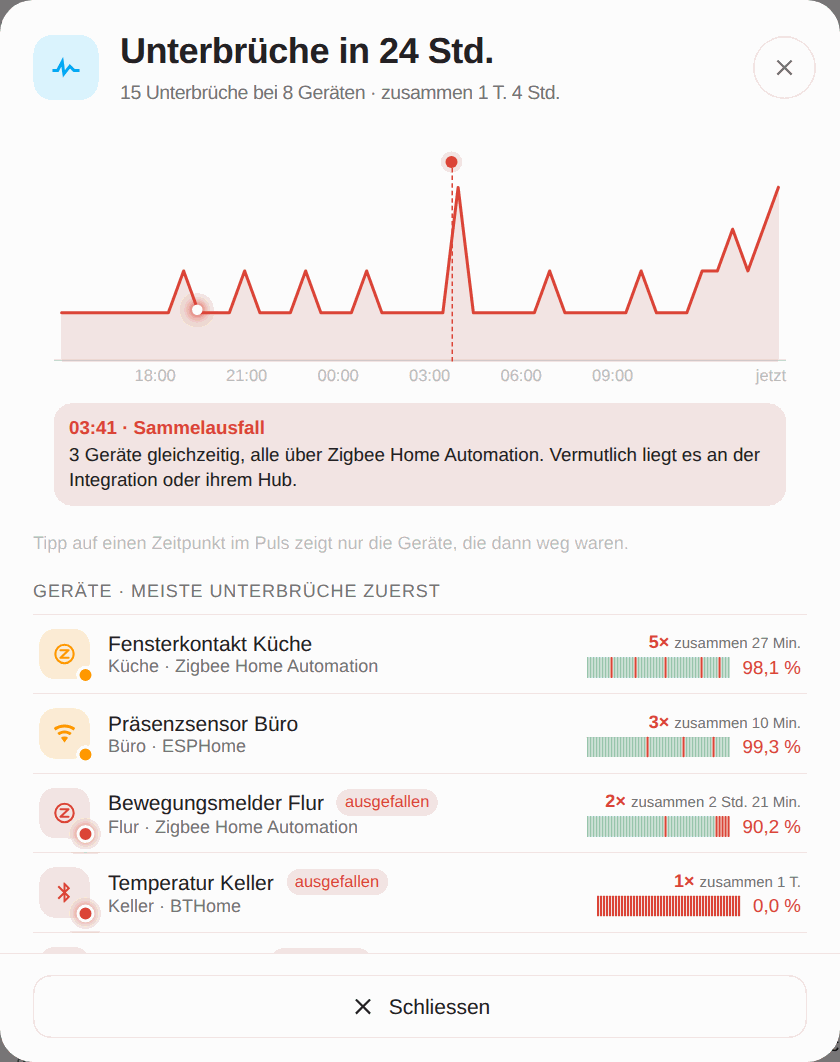
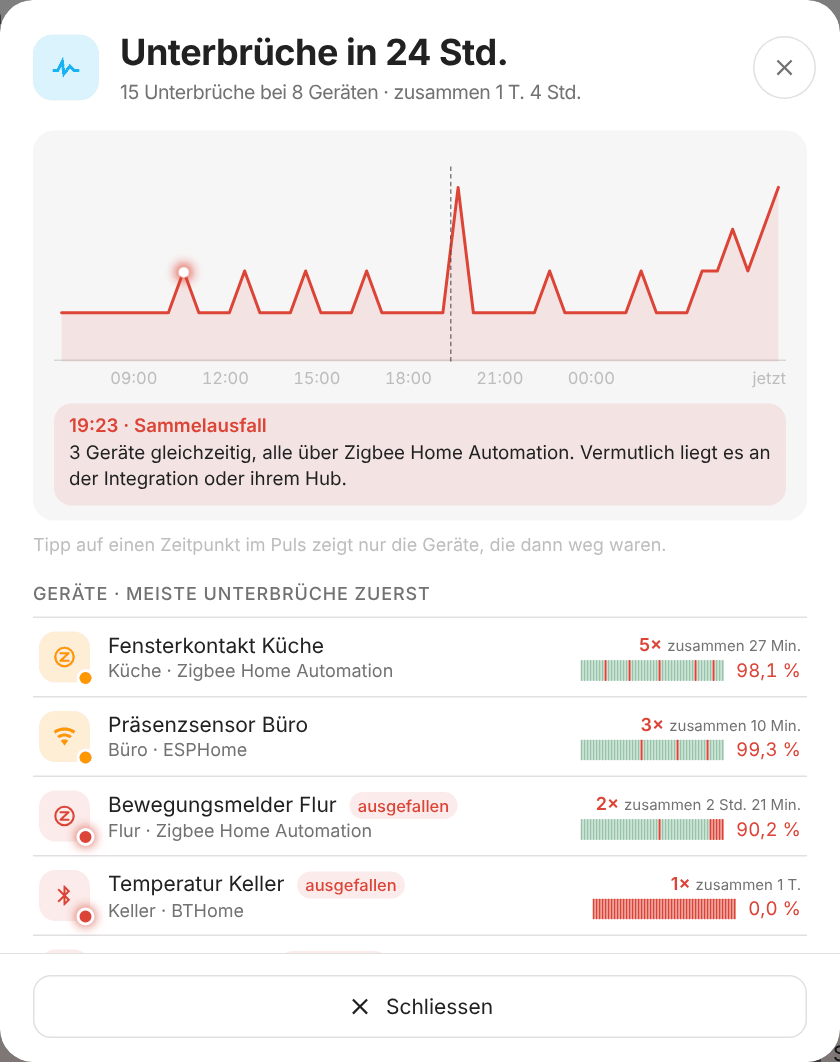
2.188.1: Sammelausfall im Ausfall-Puls ohne Punkt, nur gestrichelte Linie
Der Punkt am oberen Ende der Markierung wirkte wie ein schwebender Punkt über der
Kurve, und die rote Linie verschwand hinter dem steilen Anstieg. Jetzt nur noch die
dünne, gestrichelte senkrechte Linie in neutraler Farbe. README-Bild pulse.png neu.
CHANGELOG (DE/EN), HANDOVER, PANEL_VERSION 431.

Claude-Session: https://claude.ai/code/session_01U1q7hu4Br2u4E6fFdEJMgU

diff --git a/custom_components/device_panel/panel/styles.js b/custom_components/device_panel/panel/styles.js
@@ -221,9 +221,8 @@ button.kwarn:focus-visible { outline: 2px solid var(--dp-primary); outline-offse
    mit fünf Klicks aus, es dauert wenige Sekunden. Vorher stand es dort still und die Linie wurde nicht aufgedeckt. */
 @keyframes ee-beat-soft { 0%, 14% { transform: scale(1); } 20% { transform: scale(1.12); } 26% { transform: scale(1); } 30% { transform: scale(1.06); } 36%, 47% { transform: scale(1); } 53% { transform: scale(1.12); } 59% { transform: scale(1); } 63% { transform: scale(1.06); } 69%, 80% { transform: scale(1); } 86% { transform: scale(1.12); } 92% { transform: scale(1); } 96% { transform: scale(1.06); } 100% { transform: scale(1); } }
 @media (prefers-reduced-motion: reduce) { .tb-main > svg.ee-heart { animation-name: ee-beat-soft; } .kt.ee .k svg { animation: none; } }
-.pchart .imark { position: absolute; top: -4px; bottom: 0; width: 0; border-left: 1.5px dashed var(--dp-error); }
-.pchart .imark::before { content: ""; position: absolute; top: -3px; left: -5px; width: 8px; height: 8px; border-radius: 50%;
-  background: var(--dp-error); box-shadow: 0 0 0 3px var(--dp-error-soft); }
+/* Sammelausfall (seit 2.188.1 ohne Punkt am Kopf): nur die gestrichelte senkrechte Linie, in neutraler Farbe, damit sie neben der roten Kurve (oft genau am steilen Anstieg) sichtbar bleibt */
+.pchart .imark { position: absolute; top: 0; bottom: 0; width: 0; border-left: 1.5px dashed color-mix(in srgb, var(--dp-text) 55%, transparent); }
 .pticks { position: relative; height: 16px; margin-top: 4px; color: var(--dp-text3); font-size: 11px; font-variant-numeric: tabular-nums; white-space: nowrap; }
 .pticks span { position: absolute; transform: translateX(-50%); }
 .pticks .now-label { right: 0; transform: none; }

diff --git a/custom_components/device_panel/const.py b/custom_components/device_panel/const.py
@@ -13,7 +13,7 @@ PANEL_HTML_FILE = "panel.html"
 STATIC_URL_PATH = f"/{DOMAIN}"
 PANEL_STATIC_URL_PATH = f"{STATIC_URL_PATH}/panel"
 # Cache-Buster: bei jeder Änderung unter panel/ von Hand erhöhen.
-PANEL_VERSION = "430"
+PANEL_VERSION = "431"
 PANEL_PAGE_URL = f"{PANEL_STATIC_URL_PATH}/{PANEL_HTML_FILE}?v={PANEL_VERSION}"
 
 # Mitgeliefertes Bild für Push-Meldungen (Companion-App, "icon_url"), wie in

diff --git a/CHANGELOG.de.md b/CHANGELOG.de.md
@@ -9,12 +9,13 @@ die Versionsnummern folgen [Semantic Versioning](https://semver.org/lang/de/).
 
 ## [2.188.1] - 2026-11-03
 
-Das Geräte-Popup sieht auf einem schmalen Handy richtig aus, und die README-Bilder des Popups sind neu.
+Das Geräte-Popup sieht auf einem schmalen Handy richtig aus, die Markierung des Sammelausfalls im Ausfall-Puls ist ruhiger, und die README-Bilder des Popups sind neu.
 
 ### Behoben
 
 - **Popup, Kopf auf dem Handy:** Die Warnmarke ("Instabil 5× in 24 Std.", "Empfang schwach", "Batterie niedrig") stand in der schmalen Spalte neben dem Namen und den drei Knöpfen und brach zu einer hohen, aufgeblähten Kapsel um. Sie steht jetzt unter dem Kopf über die ganze Breite, klein und in einer Zeile, mit dem Wert in gedämpfter Farbe (der Punkt dazwischen entfällt).
 - **Popup, Kacheln der Statistik mit Pfeil:** Die Zeile unter dem Wert (zum Beispiel "5 Unterbrüche · längster 9 Min.") läuft nicht mehr unter den Pfeil unten rechts, sondern bricht in die nächste Zeile um.
+- **Ausfall-Puls, Sammelausfall:** Die Markierung eines Sammelausfalls im Diagramm ist jetzt nur noch eine dünne, gestrichelte senkrechte Linie in neutraler Farbe; der Punkt an ihrem oberen Ende entfällt. Der Punkt wirkte, als schwebe er über der Kurve, und die rote Linie verschwand oft hinter dem steilen Anstieg der Kurve. Ein Tipp auf die Linie zeigt weiter die Uhrzeit; der rote Kasten unter dem Diagramm erklärt den Sammelausfall weiter.
 - **README:** Der Abschnitt "Updates" beschreibt jetzt die ganze neue App, und die Bilder des Popups (Desktop und Handy, Deutsch und Englisch) sind neu. Das Handybild entsteht in einem höheren Fenster, die ganze Übersicht liegt also über der festen Leiste "Gerät ausblenden / Schliessen", und kein Abschnitt wirkt abgeschnitten.
 
 ## [2.188.0] - 2026-11-03

diff --git a/CHANGELOG.md b/CHANGELOG.md
@@ -9,12 +9,13 @@ and this project adheres to [Semantic Versioning](https://semver.org/).
 
 ## [2.188.1] - 2026-11-03
 
-The device pop-up looks right on a narrow phone, and the README pop-up images are renewed.
+The device pop-up looks right on a narrow phone, the group-outage mark in the outage pulse is calmer, and the README pop-up images are renewed.
 
 ### Fixed
 
 - **Pop-up, header on a phone:** the warning tag ("Unstable 5× in 24 h", "Weak signal", "Battery low") sat in the narrow column next to the name and the three buttons and broke into a tall, bloated capsule. It now sits below the header across the full width, small and in one line, with the value in a muted color (the dot between them is gone).
 - **Pop-up, statistics tiles with an arrow:** the line under the value (for example "5 outages · longest 9 min") no longer runs under the arrow at the bottom right; it breaks to the next line instead.
+- **Outage pulse, group outage:** the mark of a group outage in the chart is now only a thin dashed vertical line in a neutral color; the dot at its top end is gone. The dot looked like it floated above the curve, and the red line often hid behind the steep rise of the curve. Tapping the line still shows the time; the red box below the chart still explains the group outage.
 - **README:** the section "Updates" now describes the whole new app, and the pop-up images (desktop and phone, German and English) are renewed. The phone image is taken in a taller window, so the whole overview sits above the fixed bar "Hide device / Close" and no section looks cut off.
 
 ## [2.188.0] - 2026-11-03

diff --git a/docs/HANDOVER.md b/docs/HANDOVER.md
@@ -5,7 +5,7 @@ Einstieg für jede neue Claude-Code-Session. Zuerst diese Datei lesen, dann
 
 ## Stand (2.188.1, Popup auf dem Handy)
 
-- Die Warnmarken (`.why-tags.dlg-why`, Wert in `<span class="wv">`, ohne Punkt) stehen unter dem Popup-Kopf über die ganze Breite, klein und in einer Zeile (nicht mehr in der schmalen Spalte neben dem Namen); Kacheln mit Pfeil (`.st-tile:has(> .chev) .st-sub`) lassen Platz für den Pfeil. Test: Suite `warnwhy`. README-Bilder `popup.png` und `popup-mobile.png` neu (`readme-shots.mjs`: für das Handybild ein Fenster mit 1070 px Höhe, damit keine Abschnitte hinter der festen Leiste verschwinden).
+- Die Warnmarken (`.why-tags.dlg-why`, Wert in `<span class="wv">`, ohne Punkt) stehen unter dem Popup-Kopf über die ganze Breite, klein und in einer Zeile (nicht mehr in der schmalen Spalte neben dem Namen); Kacheln mit Pfeil (`.st-tile:has(> .chev) .st-sub`) lassen Platz für den Pfeil. Sammelausfall im Ausfall-Puls: `.imark` ist nur noch die gestrichelte senkrechte Linie in neutraler Farbe, ohne Punkt. Test: Suite `warnwhy`. README-Bilder `popup.png` und `popup-mobile.png` neu (`readme-shots.mjs`: für das Handybild ein Fenster mit 1070 px Höhe, damit keine Abschnitte hinter der festen Leiste verschwinden).
 
 ## Stand (2.188.0, App "Updates" für alle Updates)
 
